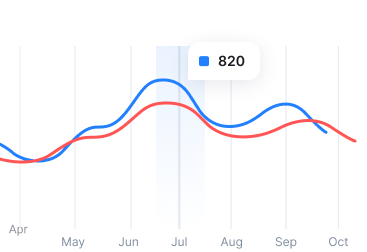
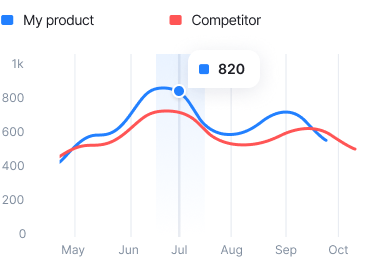
update: revisa o html

diff --git a/index.html b/index.html
@@ -50,19 +50,18 @@
 
         <section class="hero">
 
-            <button id="modern-system" aria-label="A modern POS system"><p>A modern POS system 🌹</p></button>
-                <!-- Maybe this isn't really a button, check again later (Heading, or maybe not, check the figma and think about it) -->
+            <p class="modern-system">A modern POS system 🌹</p>
 
             <div class="content-hero">
 
                 <h1>Upgrade management with our innovative POS tech</h1>
 
-                <div class="heading-and-sub-heading"> <!-- Didn't like this name, just copied from Kristian bc I didn't knew what to put here, change this -->
+                <div class="sub-heading"> 
                     <div class="arrow">
                         <p>◆</p>
                     </div>
 
-                    <div class="sub-heading">
+                    <div class="optimize">
                         <p>Optimize your business performance and make informed decisions with the comprehensive data analysis of our powerful POS platform</p>
                     </div>
                 </div>
@@ -82,20 +81,25 @@
             <div class="sale-hero">
                 <div class="sales-report">
                     <h4>Sales Report</h4>
-                    <p>🟦 My product</p> <!-- Maybe you'll change this emoji, it doesn't look too much like the figma -->
-                    <p>🟧 Competitor</p>
+                    <img src="Images/hero/product.png" alt="A shape that helps to interpret the graphic"><p> My product</p> 
+                    <img src="Images/hero/competitor.png" alt="A shape that helps to interpret the graphic"><p> Competitor</p>
                     <img src="Images/hero/graphic.png" alt="Graphic of the data of sales report">
-                    <!-- Image lost a lot of things, give your way and take all of them to her -->
                 </div>
 
                 <div class="sales-data">
-                    <!-- Here you have to think about what do you gonna do the div's here, think about -->
-                    <p>Sales</p>
-                    <p>Marketing</p>
-                    <p>$31,092</p>
-                    <p>$29,128</p>
-                    <p><span>↑4.2% </span>from last year</p> <!-- I don't know, change these arrows, copy from the figma -->
-                    <p><span>↑2.1% </span>from last year</p>
+                    
+                    <div class="sales">
+                        <p>Sales</p>
+                        <p>$31,092</p>
+                        <p><img src="Images/hero/arrow.png" alt="An icon of an arrow that indicates the sales increased"><span> 4.2% </span>from last year</p> 
+                    </div>
+
+                    <div class="marketing">
+                        <p>Marketing</p>
+                        <p>$29,128</p>
+                        <p><img src="Images/hero/arrow.png" alt="An icon of an arrow that indicates the sales increased"><span> 2.1% </span>from last year</p>
+                    </div>
+                    
                 </div>
 
             </div>
@@ -207,7 +211,15 @@
                 
                 <div class="review"> 
                     
-                    <p>⭐⭐⭐⭐⭐ 5.0</p> <!-- You'll change this emoji, it doesn't look like the figma -->
+                    <div class="stars-avaliation">
+                        <img src="Images/client-avaliation/star.png" alt="A star that indicates the avaliation of the client">
+                        <img src="Images/client-avaliation/star.png" alt="A star that indicates the avaliation of the client">
+                        <img src="Images/client-avaliation/star.png" alt="A star that indicates the avaliation of the client">
+                        <img src="Images/client-avaliation/star.png" alt="A star that indicates the avaliation of the client">
+                        <img src="Images/client-avaliation/star.png" alt="A star that indicates the avaliation of the client">
+                        <p> 5.0</p> 
+                    </div>
+
                     <h4>“ I really enjoy my work and it makes me more productive, happier and more successful. The cowering place builds confidence and inspires greater performance and greater success for both employees and employers.”</h4>
                     <p>Jenny Amelia kitty</p>
                     <p>Project Manager at Microsoft</p>
